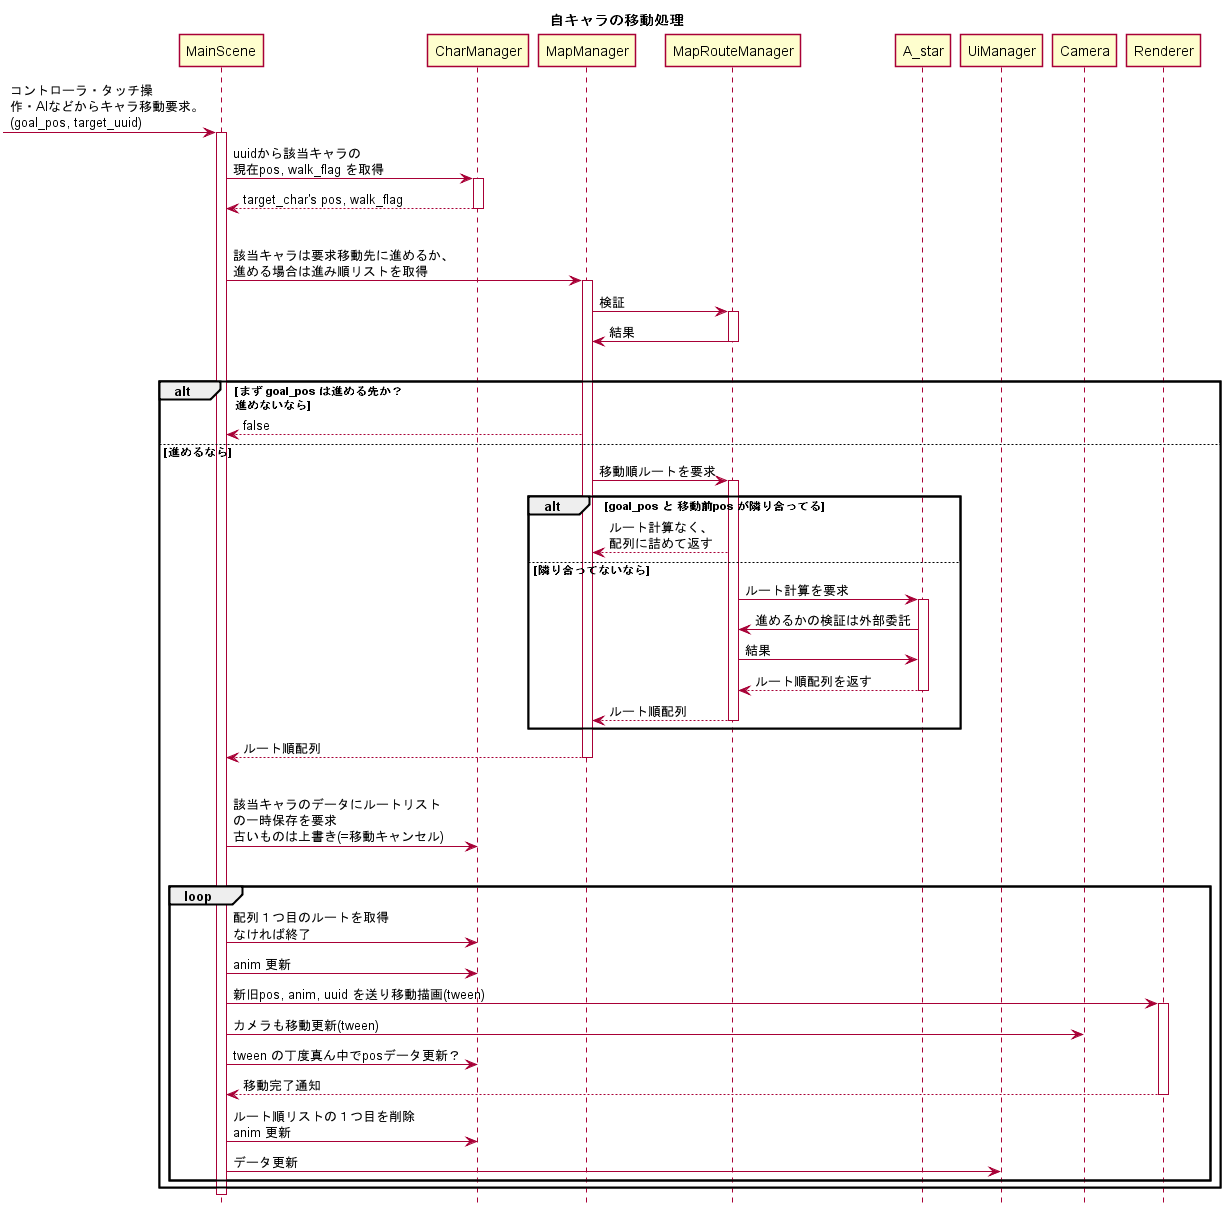
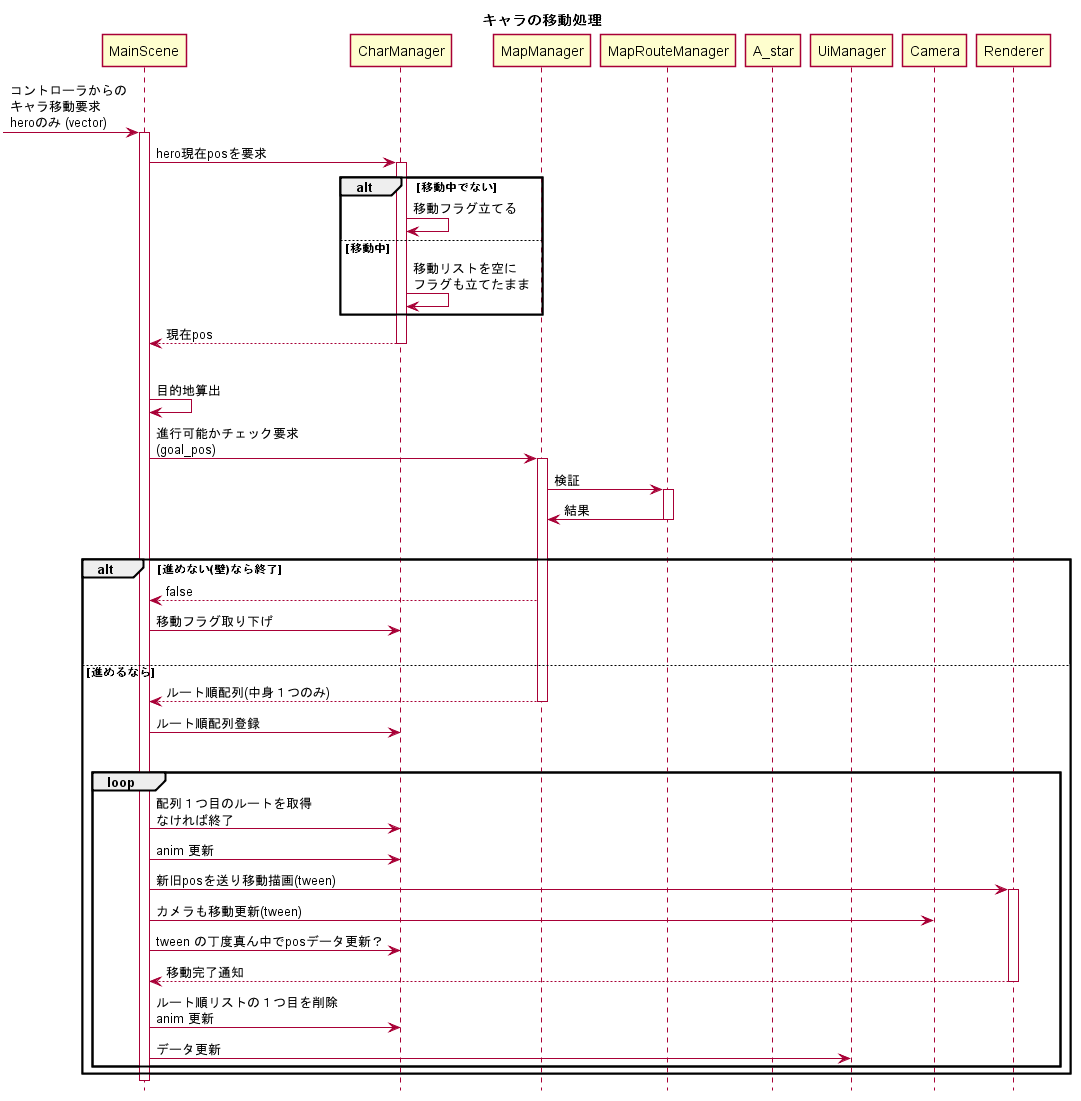
creating char move with controller

diff --git a/src/scene/MainScene.js b/src/scene/MainScene.js
@@ -71,6 +71,9 @@ phina.define('MainScene', {
       var hero_data_list = this.CharManager.getHeroData(focus_uuid, focus_area_pos, focus_node_pos); //[{hero_data}] only 1 length
       this.UiManager.updateHeroUi(hero_data_list);
       this.Renderer.renderChar(hero_data_list);
+
+      //仮
+      this.hero = hero_data_list[0];
    },
 
 
@@ -90,18 +93,22 @@ phina.define('MainScene', {
    },
 
 
-   chageCharDirection: function(dir){
-      this.CharManager.chageCharDirection(dir);
+   //暫定
+   moveCharHero: function(dir){
+      //UiManagerから呼ばれる
+      var old_abs_pos = this.hero.abs_pos;
+      var new_abs_pos = old_abs_pos.add(phina.geom.Vector2[dir]);
+      this.Renderer.moveChar(this.hero, old_abs_pos, new_abs_pos);
+      this.Camera.updateCameraPos(this.hero.uuid, this.hero.area_pos, this.hero.node_pos);
+      var map_data = this.MapManager.getMapData(this.hero.area_pos);
+      var visible_node_list = this.Camera.getVisibleNodeList(map_data, this.hero.area_pos, this.hero.node_pos);
+      //console.log(visible_node_list);
+      //this.Renderer.renderMap(visible_node_list);
    },
 
 
-   startCharMove: function(){
-      //this.CharManager.startCharMove();
-   },
-
-
-   stopCharMove: function(){
-      //this.CharManager.stopCharMove();
+   stopCharHero: function(){
+      //this.CharManager.stopHero();
    },
 
 });

diff --git a/src/renderer/Renderer.js b/src/renderer/Renderer.js
@@ -84,11 +84,11 @@ phina.define("Renderer", {
          load: new_a.concat()
       };
 
-      if (old_a.length == 0) return data;
+      if (old_a.length == 0){console.log("come"); return data;}
 
       (old_a.length).times(function(i) {
          (new_a.length).times(function(v) {
-            if (old_a[i].equals(new_a[v])) {
+            if (old_a[i].abs_pos.equals(new_a[v].abs_pos)) {
                data.unload.splice(data.unload.indexOf(old_a[i]), 1);
                data.load.splice(data.load.indexOf(new_a[v]), 1);
             }
@@ -176,5 +176,26 @@ phina.define("Renderer", {
       }
       return -1;
    },
+
+   //暫定
+   moveChar: function(char, old_abs_pos, new_abs_pos){
+
+      var speed = 500;
+
+      var qua_pos = new_abs_pos.toQuarter( this.ratio_w , this.ratio_h );
+      char.tweener
+         .clear()
+         .to({
+            x: this.grid.span( qua_pos.x ),
+            y: this.grid.span( qua_pos.y )
+         }, speed)
+         .call(function(){
+            //this.ctrl_char_m.moveDone();
+         }.bind(this));
+      char.abs_pos = new_abs_pos;
+      char.area_pos = Vector2(Math.floor(char.abs_pos.x/NODE_LENGTH),Math.floor(char.abs_pos.y/NODE_LENGTH));
+      char.node_pos = Vector2(char.abs_pos.x%NODE_LENGTH, char.abs_pos.y%NODE_LENGTH);
+
+  },
 
 });

diff --git a/src/ui/UiController.js b/src/ui/UiController.js
@@ -38,12 +38,8 @@ phina.define("UiController", {
       var center = phina.geom.Vector2(this.x , this.y);
       var pointed = phina.geom.Vector2(e.pointer.x , e.pointer.y);
       this.dir = pointed.sub(center).getDirection();
-
-      console.log(this.dir); //BOTTOM など８方向テキスト
-
-      //移動開始要求＋方角 func(this.dir)
-      this.UiManager.chageCharDirection(this.dir);
-      this.UiManager.startCharMove();
+      //移動要求＋方角 func(this.dir)
+      this.UiManager.moveCharHero(this.dir);
    },
 
    touchStay: function(e){
@@ -57,11 +53,8 @@ phina.define("UiController", {
       if(new_dir != this.dir)
       {
          this.dir = new_dir;
-
-         console.log(this.dir); //BOTTOM など８方向テキスト
-
-         //方角変更要求(移動継続) func(this.dir)
-         this.UiManager.chageCharDirection(this.dir);
+         //移動要求＋方角 func(this.dir)
+         this.UiManager.moveCharHero(this.dir);
       }
    },
 
@@ -75,7 +68,7 @@ phina.define("UiController", {
 
    touchEnd: function(e){
       //移動停止要求 func()
-      this.UiManager.stopCharMove();
+      this.UiManager.stopCharHero();
    },
 
 });

diff --git a/src/map/MapManager.js b/src/map/MapManager.js
@@ -69,4 +69,19 @@ phina.define("MapManager", {
       return this.Area.getEnemyList(this.map_data);
    },
 
+
+   //暫定
+   getRouteList: function(new_abs_pos){
+      var new_area_pos_x = Math.floor(new_abs_pos.x/NODE_LENGTH);
+      var new_area_pos_y = Math.floor(new_abs_pos.y/NODE_LENGTH);
+      var new_node_pos_x = new_abs_pos.x%NODE_LENGTH;
+      var new_node_pos_y = new_abs_pos.y%NODE_LENGTH;
+
+      var new_node = this.map_data[new_area_pos_y][new_area_pos_x][new_node_pos_y][new_node_pos_x];
+
+      if(new_node.collision) return false;
+
+      return [new_abs_pos];
+   },
+
 });

diff --git a/src/layer/AssetLayer.js b/src/layer/AssetLayer.js
@@ -19,7 +19,11 @@ phina.define("AssetLayer", {
    updatePos: function(ctr_px_pos) {
       //Camera に呼ばれる
       //中央に来るべき px_pos が届くので -1 を掛けた位置に自身を動かす
-      this.setPosition(ctr_px_pos.x * -1 , ctr_px_pos.y * -1);
+      //this.setPosition(ctr_px_pos.x * -1 , ctr_px_pos.y * -1);
+      this.tweener.clear().to({
+         x: ctr_px_pos.x * -1,
+         y: ctr_px_pos.y * -1
+      },500);
    },
 
 

diff --git a/src/ui/UiManager.js b/src/ui/UiManager.js
@@ -76,17 +76,12 @@ phina.define("UiManager", {
    },
 
 
-   chageCharDirection: function(dir){
-      this.MainScene.chageCharDirection(dir);
+   moveCharHero: function(dir){
+      this.MainScene.moveCharHero(dir);
    },
 
 
-   startCharMove: function(){
-      this.MainScene.startCharMove();
-   },
-
-
-   stopCharMove: function(){
-      this.MainScene.stopCharMove();
+   stopCharHero: function(){
+      this.MainScene.stopCharHero();
    },
 });

diff --git a/src/main.js b/src/main.js
@@ -17,7 +17,7 @@ NODE_LENGTH = 51;
 AREA_LENGTH = 3;
 HERO_UUID = Random.uuid(); //phina.util.Random;
 AREA_DEF_POS = Vector2(1, 1);
-NODE_DEF_POS = Vector2(25, 25);
+NODE_DEF_POS = Vector2(25, 26);
 //var STEP_HEIGHT = 30;
 MAP_WIDTH = NODE_WIDTH * NODE_LENGTH * AREA_LENGTH;
 MAP_HEIGHT = NODE_HEIGHT * NODE_LENGTH * AREA_LENGTH;

diff --git a/src/character/Char.js b/src/character/Char.js
@@ -33,9 +33,15 @@ phina.define("Char",{
    isMuteki: false, //naming..？
    isDead: false,
 
+   route_list: [],
+
 
    init: function(){
       this.superInit();
+   },
+
+   getIsWalking: function(){
+      return this.isWalking;
    },
 
    //ACTION_METHOD..

diff --git a/src/character/CharManager.js b/src/character/CharManager.js
@@ -64,7 +64,8 @@ phina.define("CharManager",{
    },
 
 
-   chageCharDirection: function(dir){
-      this.HeroManager.changeDirection(dir);
+   getHeroAbsPos: function(){
+      return this.HeroManager.getHeroAbsPos();
    },
+
 });

diff --git a/src/character/hero/HeroManager.js b/src/character/hero/HeroManager.js
@@ -22,8 +22,8 @@ phina.define("HeroManager",{
    },
 
 
-   changeDirection: function(dir){
-      this.Hero.changeDirection(dir);
+   getHeroAbsPos: function(){
+      return this.Hero.abs_pos;
    },
 
 });

diff --git a/src/character/hero/Hero.js b/src/character/hero/Hero.js
@@ -110,6 +110,7 @@ phina.define("Hero",{
       this.anim.gotoAndPlay(nn);
    },
 
+
 });
 
 
